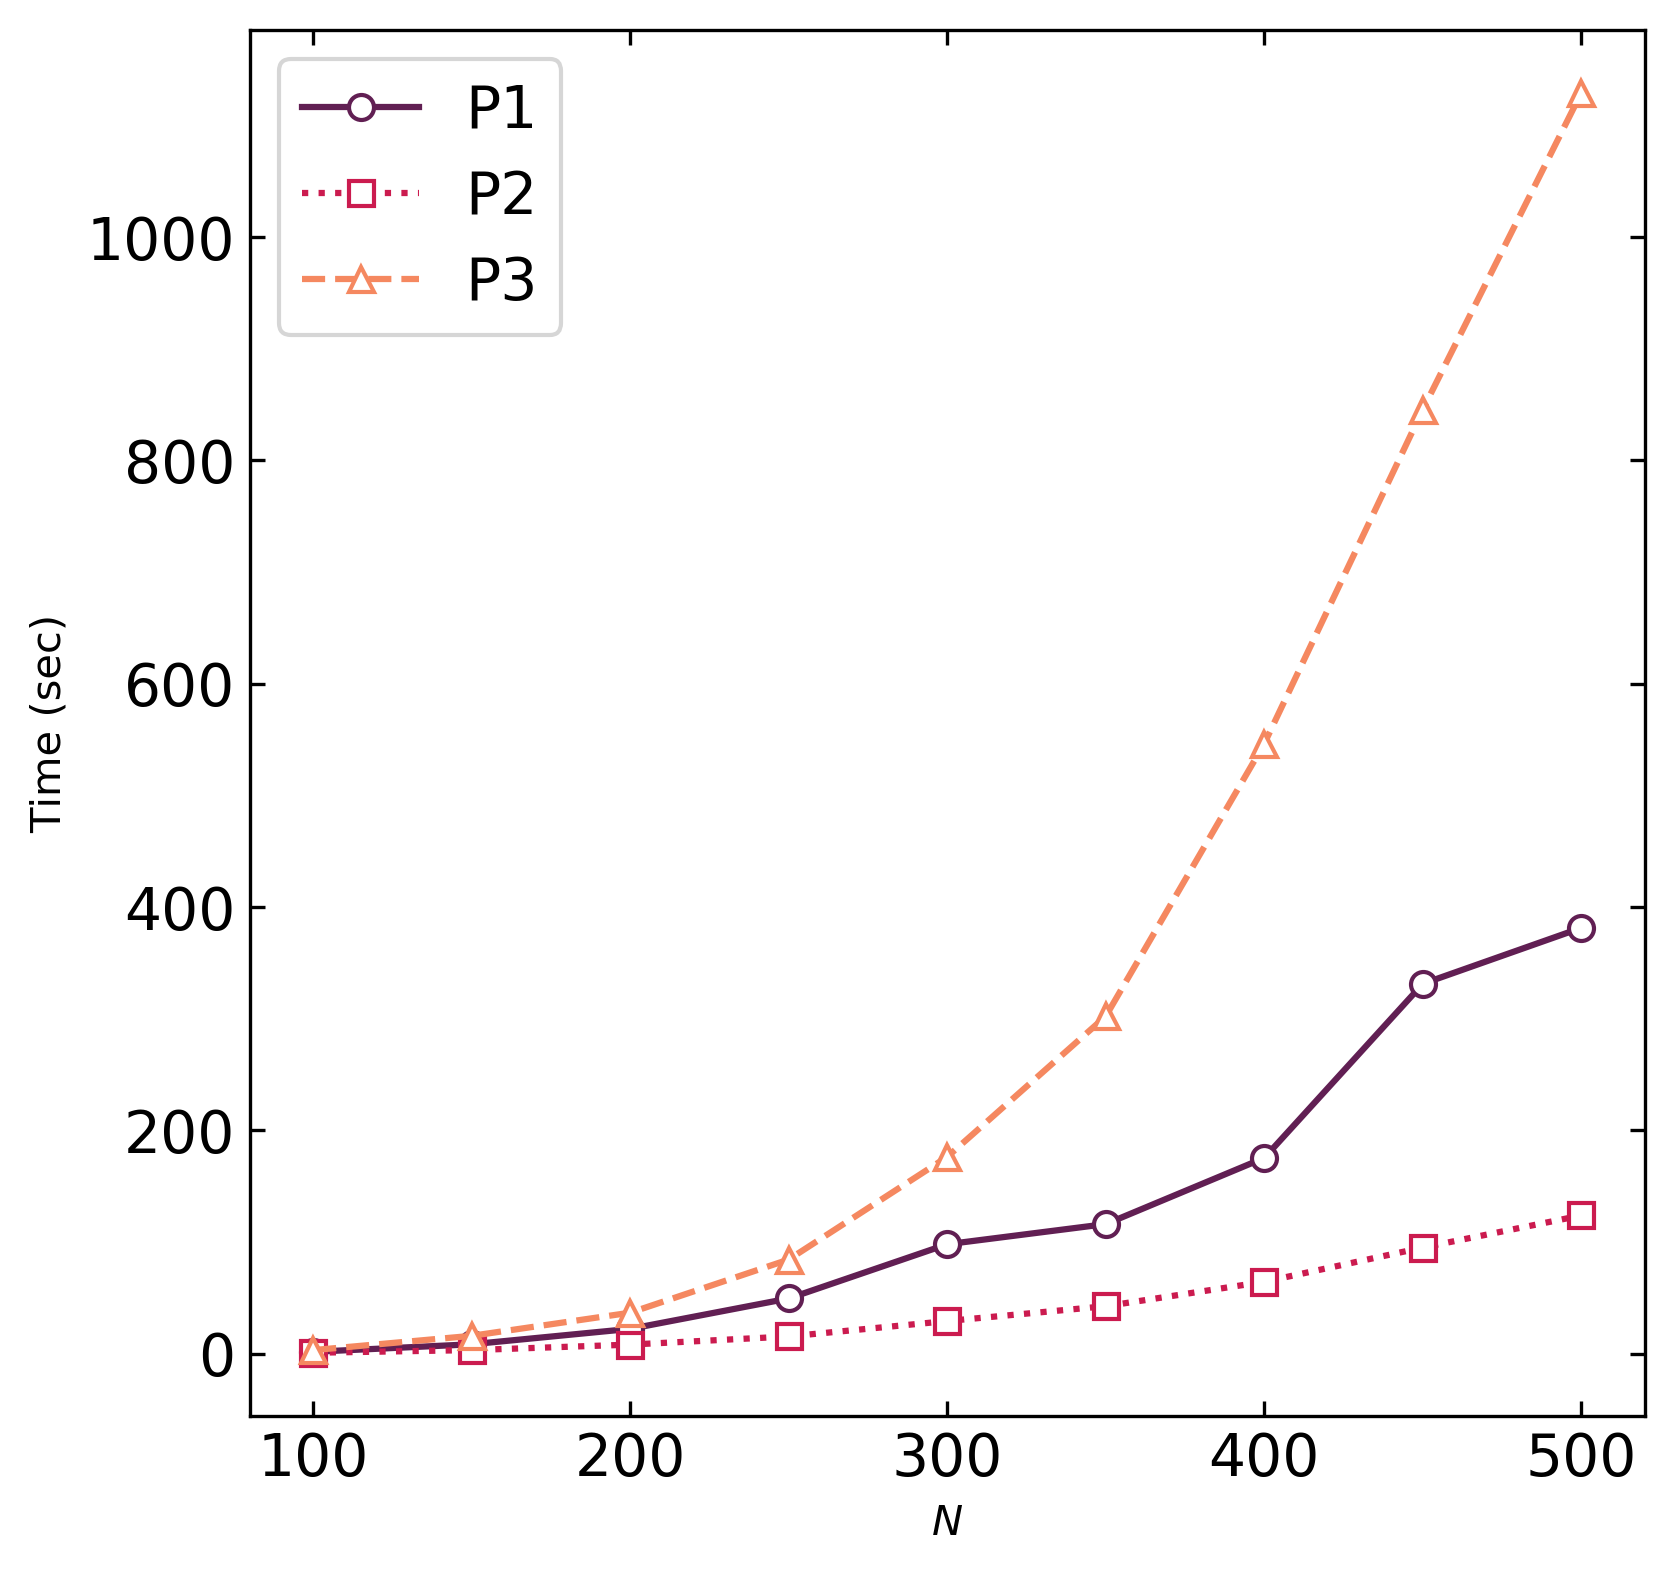
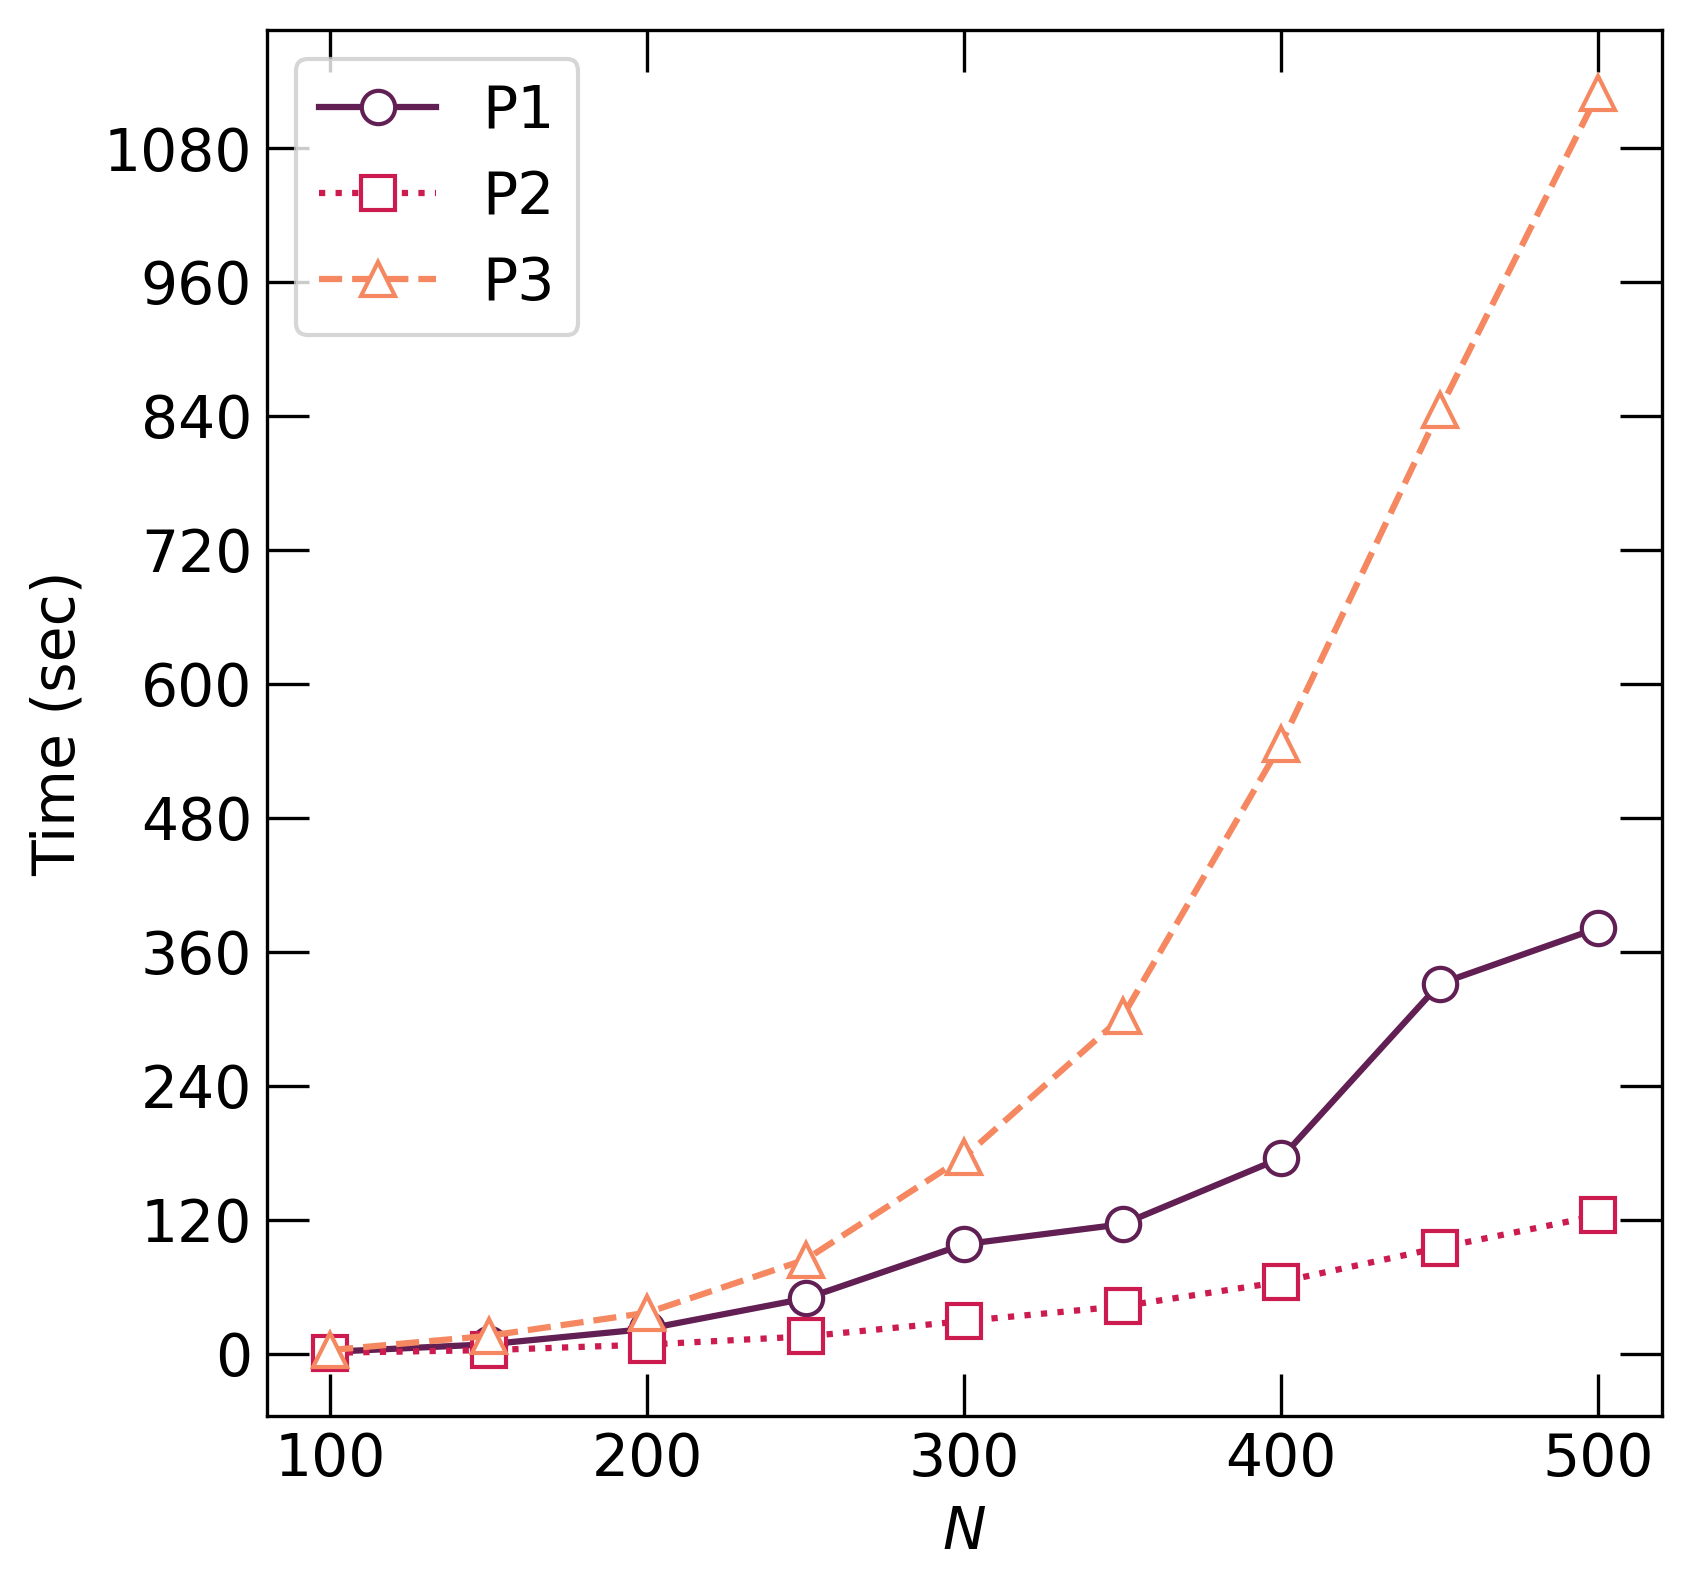
updated latex table generator

diff --git a/C/Rectangle/ClusterTest/Serial/make_plot.py b/C/Rectangle/ClusterTest/Serial/make_plot.py
@@ -2,6 +2,7 @@ import matplotlib.pyplot as plt
 import numpy as np
 import seaborn as sns
 
+plt.rcParams.update({'font.size' : 14})
 colors=sns.color_palette("rocket",3)
 
 f = open("out_test1b")
@@ -19,15 +20,18 @@ for i in range(N):
    Ns[i] = 100 + i*50
 
 fig = plt.figure(1, figsize=(6,6))
-plt.plot(Ns,times[0],'-', label='P1',marker='o',mfc='w',color=colors[0])
-plt.plot(Ns,times[1],':', label='P2',marker='s',mfc='w',color=colors[1])
-plt.plot(Ns,times[2],'--',label='P3',marker='^',mfc='w',color=colors[2])
+plt.plot(Ns,times[0],'-', label='P1',marker='o',mfc='w',color=colors[0],ms=8)
+plt.plot(Ns,times[1],':', label='P2',marker='s',mfc='w',color=colors[1],ms=8)
+plt.plot(Ns,times[2],'--',label='P3',marker='^',mfc='w',color=colors[2],ms=8)
 plt.tick_params(direction='in',right=True,top=True)
 plt.tick_params(labelsize=14)
+plt.tick_params(direction='in',which='minor', length=5, bottom=True, top=True, left=True, right=True)
+plt.tick_params(direction='in',which='major', length=10, bottom=True, top=True, left=True, right=True)
 plt.tick_params(labelbottom=True,labeltop=False,labelright=False,labelleft=True)
 plt.xlabel('$N$')
 plt.ylabel('Time (sec)')
+plt.yticks(np.arange(0,1200,120))
 plt.legend(fontsize=14)
 plt.savefig('serial.png',dpi=300,bbox_inches='tight')
-# plt.show()
+plt.show()
 

diff --git a/C/Rectangle/ClusterTest/Set4/make_latex_table.py b/C/Rectangle/ClusterTest/Set4/make_latex_table.py
@@ -1,13 +1,10 @@
 import matplotlib.pyplot as plt
 import numpy as np
-import seaborn as sns
 
-colors=sns.color_palette("rocket",3)
-
-filename = 'out_test1'
+filename = 'out_test3'
 
 f = open(filename)
-N = 5
+N = 6
 op = np.zeros(N,dtype=float)
 times = np.zeros((3,N),dtype=float)
 iters = np.zeros((3,N),dtype=int)
@@ -27,22 +24,8 @@ print(iters)
 for i in range(3):
    print("P{:d} & ".format(i),end='')
    for j in range(N):
-      print("{:.3f} & {:d} & ".format(times[i][j],iters[i][j]),end='')
-   print('')
-
-
-
-
-# fig = plt.figure(1, figsize=(6,6))
-# plt.plot(Ns,times[0],'-', label='P1',marker='o',mfc='w',color=colors[0])
-# plt.plot(Ns,times[1],':', label='P2',marker='s',mfc='w',color=colors[1])
-# plt.plot(Ns,times[2],'--',label='P3',marker='^',mfc='w',color=colors[2])
-# plt.tick_params(direction='in',right=True,top=True)
-# plt.tick_params(labelsize=14)
-# plt.tick_params(labelbottom=True,labeltop=False,labelright=False,labelleft=True)
-# plt.xlabel('$N$')
-# plt.ylabel('Time (sec)')
-# plt.legend(fontsize=14)
-# plt.savefig('serial.png',dpi=300,bbox_inches='tight')
-# plt.show()
-
+      print("{:.3f} & {:d}".format(times[i][j],iters[i][j]),end='')
+      if (j<N-1):
+         print(" & ",end='')
+      else:
+         print(" \\\\")
